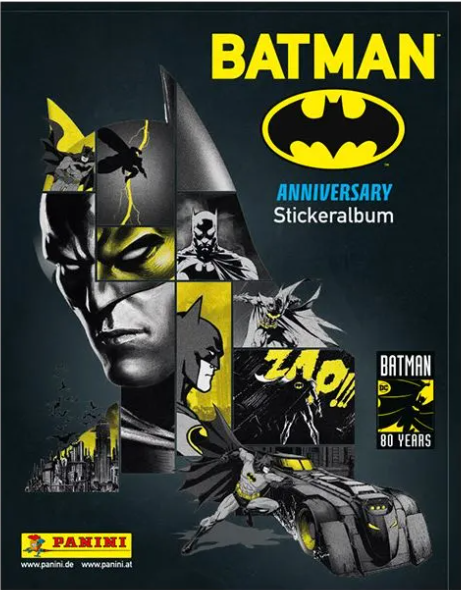
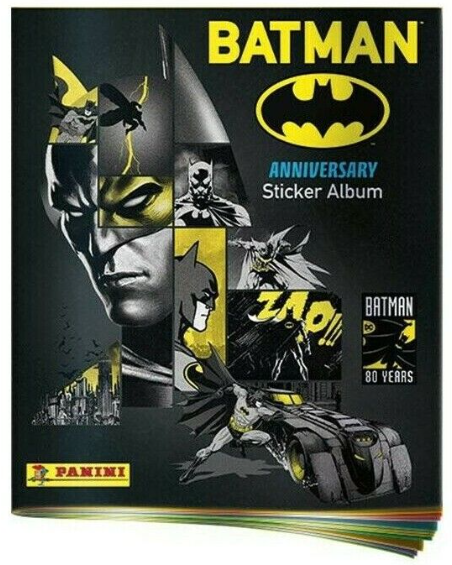
add background

diff --git a/css/style.css b/css/style.css
@@ -20,17 +20,17 @@
   background-color: rgb(255, 237, 0);
   border: 2px solid rgba(59, 59, 59, 0.733);
   margin-right: 1rem;}
-    
+
 main{
-  background-color: #00509D ;
-  height: 100vh;}
+  background-color: rgb(250, 248, 216) ;
+  height: auto;}
 
 .col{
   max-width: 20rem;
-  margin: 15vh auto 5vh;}
+  margin: 15vh auto 5vh;
+  }
 
 footer ul{
-  font-family: "Noto-Serif-Thai";
   position: fixed;
   bottom: 0;
   background-color: #F8F9FA ;
@@ -129,10 +129,27 @@ label .cover-checkbox {
   max-width: 20rem;}
 
 .card-body{
-  text-align: center;}
+  display: flex;
+  flex-direction: column;
+  justify-content: end;
+  align-items: center;}
+
 
 .card-text span{
-  color: rgb(192, 0, 0);}
+  color: rgb(192, 0, 0);
+  display: flex;
+  flex-direction: column;
+  justify-content: end;
+  align-items: center;}
 
-/* -- Super Mario --*/
+/* -- Pixar --*/
 
+/* -- Media query --*/
+
+@media (min-width: 768px){
+main {
+  height: 100vh;
+    display: flex;
+    justify-content: center;
+    align-items: center;
+}}

diff --git a/index.html b/index.html
@@ -62,7 +62,7 @@
               <div class="card h-100">
                 <a href="./pages/batman.html"><img src="./images/batman.png" class="card-img-top" alt="Cover des Batman Stickeralbums"></a>
                 <div class="card-body">
-                  <h5 class="card-title">Batman 80 Years Anniversary</h5>
+                  <h5 class="card-title">Batman Anniversary</h5>
                   <p class="card-text">49 Seiten / 196 Sticker</p>
                 </div>
               </div>
@@ -93,7 +93,7 @@
               <a class="nav-link active text-reset" aria-current="page" href="#">Nachbestellung</a>
             </li>
             <li class="nav-item">
-              <a class="nav-link text-reset" href="#">Copyright Expo</a>
+              <a class="nav-link text-reset" href="#">© Expo</a>
             </li>
             <li class="nav-item">
               <a class="nav-link text-reset" href="#">Impressum</a>

diff --git a/pages/supermario.html b/pages/supermario.html
@@ -53,7 +53,7 @@
             </div>
           </nav>
     </header>
-    <main class="super ">
+    <main class="super d-flex align-items-center">
         <div class="col">
             <div class="card h-100 supermario">
               <a href="./supermario.html"><img src="../images/supermario.jpg" class="card-img-top" alt="Cover des Super Mario Stickeralbums"></a>

diff --git a/pages/pixar.html b/pages/pixar.html
@@ -53,7 +53,7 @@
             </div>
           </nav>
     </header>
-    <main class="super ">
+    <main class="super d-flex align-items-center">
         <div class="col">
             <div class="card h-100 supermario">
               <a href="./pixar.html"><img src="../images/pixar.jpg" class="card-img-top" alt="Cover des Pixar Stickeralbums"></a>
